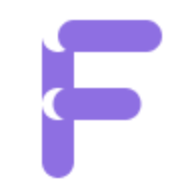
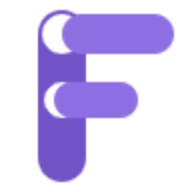
fix: add label to link and cross-origin

Changed region(s): [[0.1875, 0.0312, 0.9375, 0.9688]]

diff --git a/src/components/Header/Header.vue b/src/components/Header/Header.vue
@@ -2,35 +2,35 @@
   <header class="Header" :style="headerStyle">
     <div class="Header__container">
       <a
-        href="#home"
         class="Header__logo"
         :class="'Header__logo--' + screen.type.value"
+        @click="onLogoClicked('home')"
       >
         <svg viewBox="0 0 96 96" fill="none" xmlns="http://www.w3.org/2000/svg">
           <g id="Logo">
             <g id="F">
               <path
+                id="F1"
+                fill-rule="evenodd"
+                clip-rule="evenodd"
+                d="M31 5C37.6274 5 43 10.3726 43 17L43 79C43 85.6274 37.6274 91 31 91C24.3726 91 19 85.6274 19 79L19 17C19 10.3726 24.3726 5 31 5ZM41 17C41 22.5228 36.5228 27 31 27C25.4772 27 21 22.5228 21 17C21 11.4772 25.4772 7 31 7C36.5228 7 41 11.4772 41 17ZM31 59C35.9706 59 40 54.9706 40 50C40 45.0294 35.9706 41 31 41C26.0294 41 22 45.0294 22 50C22 54.9706 26.0294 59 31 59Z"
+                fill="#7253C6"
+              />
+              <path
                 id="F3"
-                d="M62.5 52H34.5"
+                d="M60 50H36"
                 stroke="#8E6FE2"
-                stroke-width="16"
+                stroke-width="18"
                 stroke-linecap="round"
               />
               <path
                 id="F2"
-                d="M73 18L37 18"
+                d="M77 17L41 17"
                 stroke="#8E6FE2"
-                stroke-width="16"
+                stroke-width="20"
                 stroke-linecap="round"
               />
             </g>
-            <path
-              id="F1"
-              fill-rule="evenodd"
-              clip-rule="evenodd"
-              d="M37 18C37 22.4183 33.4183 26 29 26C24.5817 26 21 22.4183 21 18L21 51.9951C21.0027 47.5791 24.5834 44 29 44C33.4183 44 37 47.5817 37 52C37 56.4183 33.4183 60 29 60C24.5834 60 21.0027 56.4209 21 52.0049L21 81C21 85.4183 24.5817 89 29 89C33.4183 89 37 85.4183 37 81L37 52V18Z"
-              fill="#8E6FE2"
-            />
           </g>
         </svg>
       </a>
@@ -244,6 +244,16 @@ const headerStyle = computed(() => {
   };
 });
 
+function onLogoClicked(id) {
+  hash.value = "#" + id;
+
+  const navEl = document.getElementById(id);
+  navEl.scrollIntoView({
+    block: "start",
+    behavior: "smooth",
+  });
+}
+
 provide("hash", hash);
 provide("isMobileNavOpened", isMobileNavOpened);
 </script>
@@ -271,10 +281,8 @@ provide("isMobileNavOpened", isMobileNavOpened);
     justify-content: space-between;
     align-items: center;
   }
-  a {
-    text-decoration: none;
-  }
   &__logo {
+    cursor: pointer;
     font-size: 0;
     svg {
       display: block;

diff --git a/src/components/Shared/Loading.vue b/src/components/Shared/Loading.vue
@@ -1,27 +1,27 @@
 <template>
   <div id="loading" @wheel.prevent @touchmove.prevent @scroll.prevent>
     <svg viewBox="0 0 96 96" fill="none" xmlns="http://www.w3.org/2000/svg">
-      <g id="Logo">
+      <g id="LoadingLogo">
         <g id="F">
           <path
             id="F1"
             fill-rule="evenodd"
             clip-rule="evenodd"
-            d="M37 18C37 22.4183 33.4183 26 29 26C24.5817 26 21 22.4183 21 18L21 51.9951C21.0027 47.5791 24.5834 44 29 44C33.4183 44 37 47.5817 37 52C37 56.4183 33.4183 60 29 60C24.5834 60 21.0027 56.4209 21 52.0049L21 81C21 85.4183 24.5817 89 29 89C33.4183 89 37 85.4183 37 81L37 52V18Z"
-            fill="#8E6FE2"
+            d="M31 5C37.6274 5 43 10.3726 43 17L43 79C43 85.6274 37.6274 91 31 91C24.3726 91 19 85.6274 19 79L19 17C19 10.3726 24.3726 5 31 5ZM41 17C41 22.5228 36.5228 27 31 27C25.4772 27 21 22.5228 21 17C21 11.4772 25.4772 7 31 7C36.5228 7 41 11.4772 41 17ZM31 59C35.9706 59 40 54.9706 40 50C40 45.0294 35.9706 41 31 41C26.0294 41 22 45.0294 22 50C22 54.9706 26.0294 59 31 59Z"
+            fill="#7253C6"
           />
           <path
             id="F3"
-            d="M57 52H29"
+            d="M55 50H31"
             stroke="#8E6FE2"
-            stroke-width="16"
+            stroke-width="18"
             stroke-linecap="round"
           />
           <path
             id="F2"
-            d="M65 18L29 18"
+            d="M67 17L31 17"
             stroke="#8E6FE2"
-            stroke-width="16"
+            stroke-width="20"
             stroke-linecap="round"
           />
         </g>
@@ -46,7 +46,8 @@ $duration: 0.55s;
   svg {
     margin: auto;
     width: min(25vw, 256px);
-    animation: zoomFadeAway $duration ease-in-out 1.75s forwards;
+    animation: zoomFadeAway $duration ease-in-out calc($duration * 3.25)
+      forwards;
     backface-visibility: hidden;
   }
 }

diff --git a/src/components/Footer/Footer.vue b/src/components/Footer/Footer.vue
@@ -1,0 +1,32 @@
+<template>
+  <footer class="Footer">
+    <div class="Footer__container">
+      <p class="Footer__text">© Copyright 2021. All right reserved</p>
+    </div>
+  </footer>
+</template>
+
+<script setup></script>
+
+<style lang="scss" scoped>
+.Footer {
+  background-color: var(--bgColor);
+  padding: 48px 0;
+  &__container {
+    min-width: 314px;
+    max-width: var(--layoutWidth);
+    padding: 0 var(--layoutPadding);
+    margin: 0 auto;
+    display: flex;
+    justify-content: space-between;
+    align-items: center;
+  }
+  &__text {
+    margin: 0 auto;
+    align-self: center;
+    text-align: center;
+    font-size: var(--fontXS);
+    color: var(--bodyTextColor);
+  }
+}
+</style>

diff --git a/src/App.vue b/src/App.vue
@@ -6,12 +6,14 @@
     <About />
     <Project />
     <Contact />
+    <Footer />
   </div>
 </template>
 
 <script setup>
 import Loading from "@/components/Shared/Loading.vue";
 import Header from "@/components/Header/Header.vue";
+import Footer from "@/components/Footer/Footer.vue";
 import getScreen from "@/components/Shared/screen";
 import Home from "@/views/Home.vue";
 import About from "@/components/About/About.vue";
@@ -23,7 +25,7 @@ const isLoading = ref(true);
 onMounted(() => {
   setTimeout(() => {
     isLoading.value = false;
-  }, 2500);
+  }, 2750);
 });
 
 const screen = getScreen();

diff --git a/src/components/Contact/Contact.vue b/src/components/Contact/Contact.vue
@@ -47,6 +47,8 @@
               href="https://github.com/FeiWhang"
               target="_blank"
               class="Contact__social"
+              aria-label="Github"
+              rel="noopener"
               ><svg
                 viewBox="0 0 32 32"
                 fill="none"
@@ -64,6 +66,8 @@
               href="https://linkedin.com/in/feiwhang"
               target="_blank"
               class="Contact__social"
+              aria-label="Linkedin"
+              rel="noopener"
               ><svg
                 viewBox="0 0 32 32"
                 fill="none"

diff --git a/src/components/Project/Project.vue b/src/components/Project/Project.vue
@@ -72,6 +72,8 @@
                 class="ProjectItem__link"
                 v-if="project.githubUrl"
                 target="_blank"
+                rel="noopener"
+                aria-label="Github"
                 ><svg
                   viewBox="0 0 32 32"
                   fill="none"
@@ -104,6 +106,8 @@
                 class="ProjectItem__link"
                 v-if="project.demoUrl"
                 target="_blank"
+                rel="noopener"
+                aria-label="Live demo"
               >
                 <svg
                   viewBox="0 0 32 32"

diff --git a/src/components/Contact/ContactForm.vue b/src/components/Contact/ContactForm.vue
@@ -20,7 +20,7 @@
     <label for="email" class="ContactForm__label">Email</label>
     <input
       type="text"
-      id="text"
+      id="email"
       v-model="formData.email"
       class="ContactForm__input"
     />
@@ -32,7 +32,7 @@
     >
       * Email format is invalid
     </p>
-    <label for="email" class="ContactForm__label">Message</label>
+    <label for="message" class="ContactForm__label">Message</label>
     <textarea
       name="message"
       id="message"

diff --git a/src/components/About/Tech.vue b/src/components/About/Tech.vue
@@ -56,7 +56,7 @@
         </g>
       </g>
     </svg>
-    <h3 class="Tech__title">Some technologies I've used</h3>
+    <h1 class="Tech__title">Some technologies I've used</h1>
     <div class="Tech__list" :class="'Tech__list--' + screen.type.value">
       <p class="Tech__item">
         <svg viewBox="0 0 16 16" fill="none" xmlns="http://www.w3.org/2000/svg">

diff --git a/src/components/Home/HomeHero.vue b/src/components/Home/HomeHero.vue
@@ -16,7 +16,7 @@
       {{ "A Computer Science student at " }}
       <a
         href="https://muic.mahidol.ac.th/"
-        rel="noreferrer"
+        rel="noopener"
         target="_blank"
         title="External link to MUIC website"
         >MUIC</a
